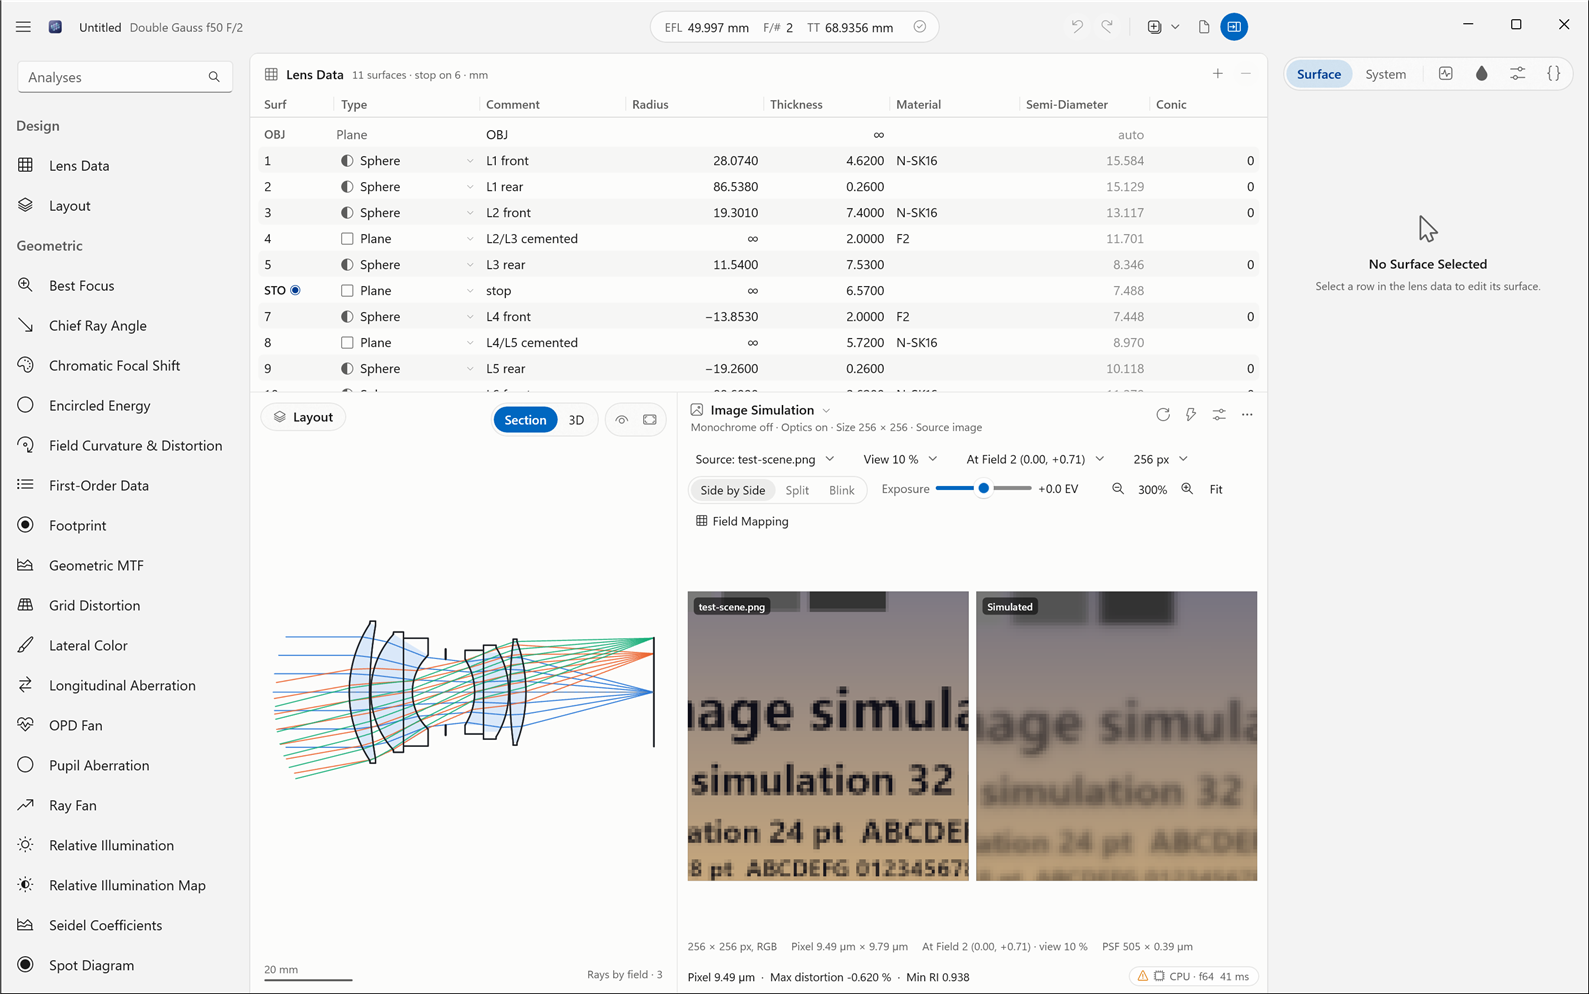
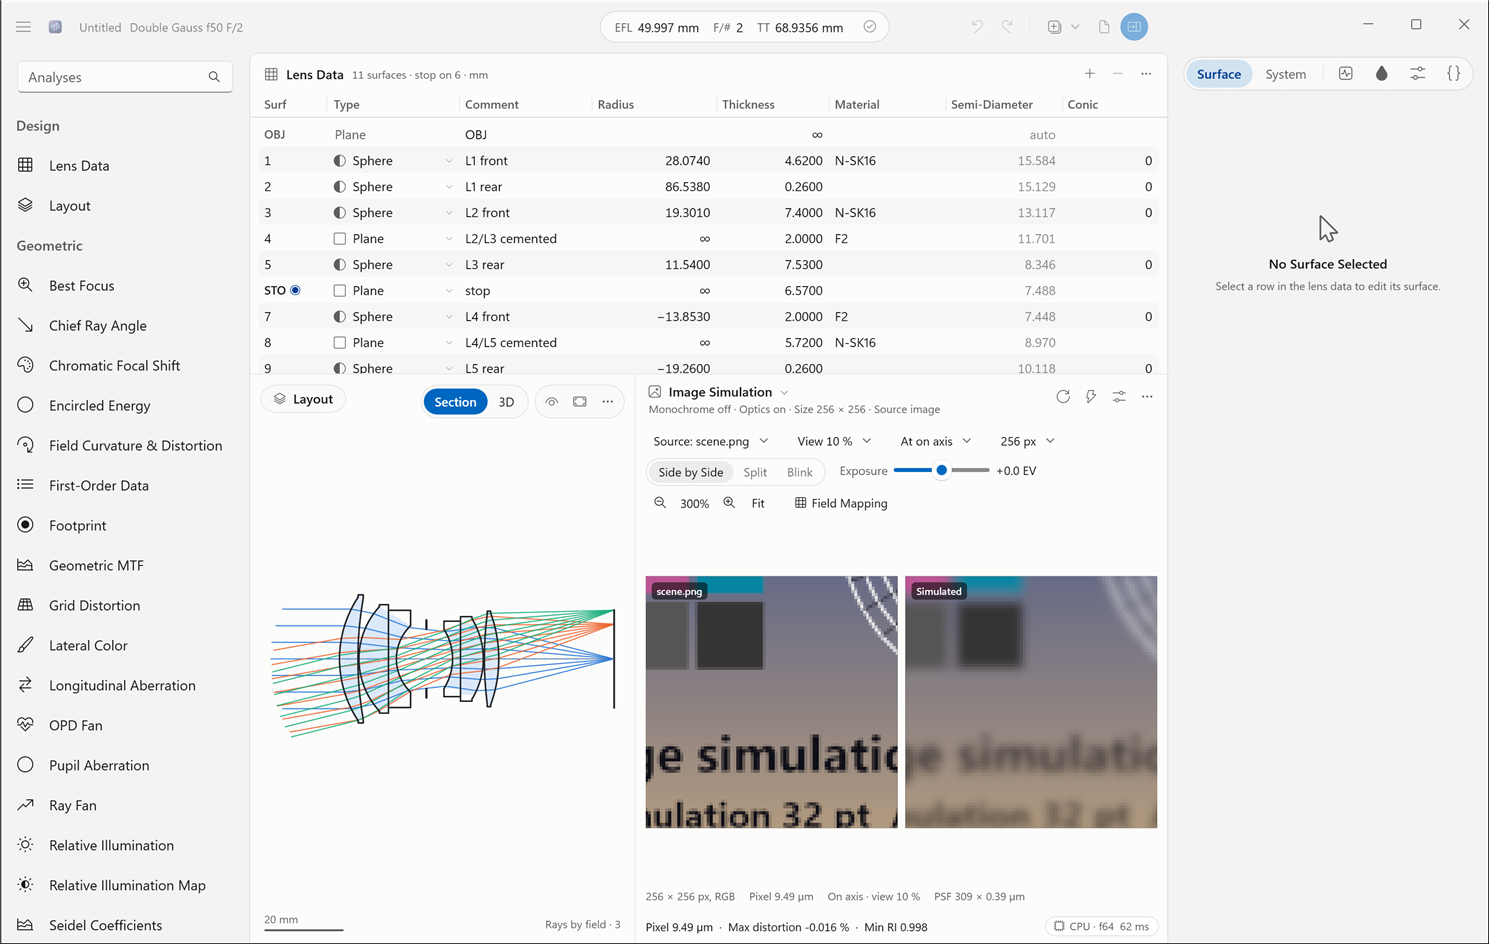
Windows app: result-view screenshots on the round-3 pane chrome; a shorter spot scale note

diff --git a/apps/windows/src/MKLight.App/Views/Analysis/Results/Readers/SpotGridData.cs b/apps/windows/src/MKLight.App/Views/Analysis/Results/Readers/SpotGridData.cs
@@ -235,7 +235,7 @@ public sealed class SpotGridData
     {
         var s = scale == SpotScale.Grid || Rows.Count < 2
             ? $"Box half-width {Fmt.Length(HalfWidths(SpotScale.Grid, other).FirstOrDefault(double.NaN))}, common to all cells"
-              + (other is null ? "" : ", the design's and the candidate's")
+              + (other is null ? "" : " (design and candidate)")
             : "Box half-width per field, shown by each row";
         s += Reference == "centroid" ? " · about the centroid" : " · about the chief ray";
         if (Planes.Count < SampledPlanes) s += $" · {Planes.Count} of {SampledPlanes} planes shown";
